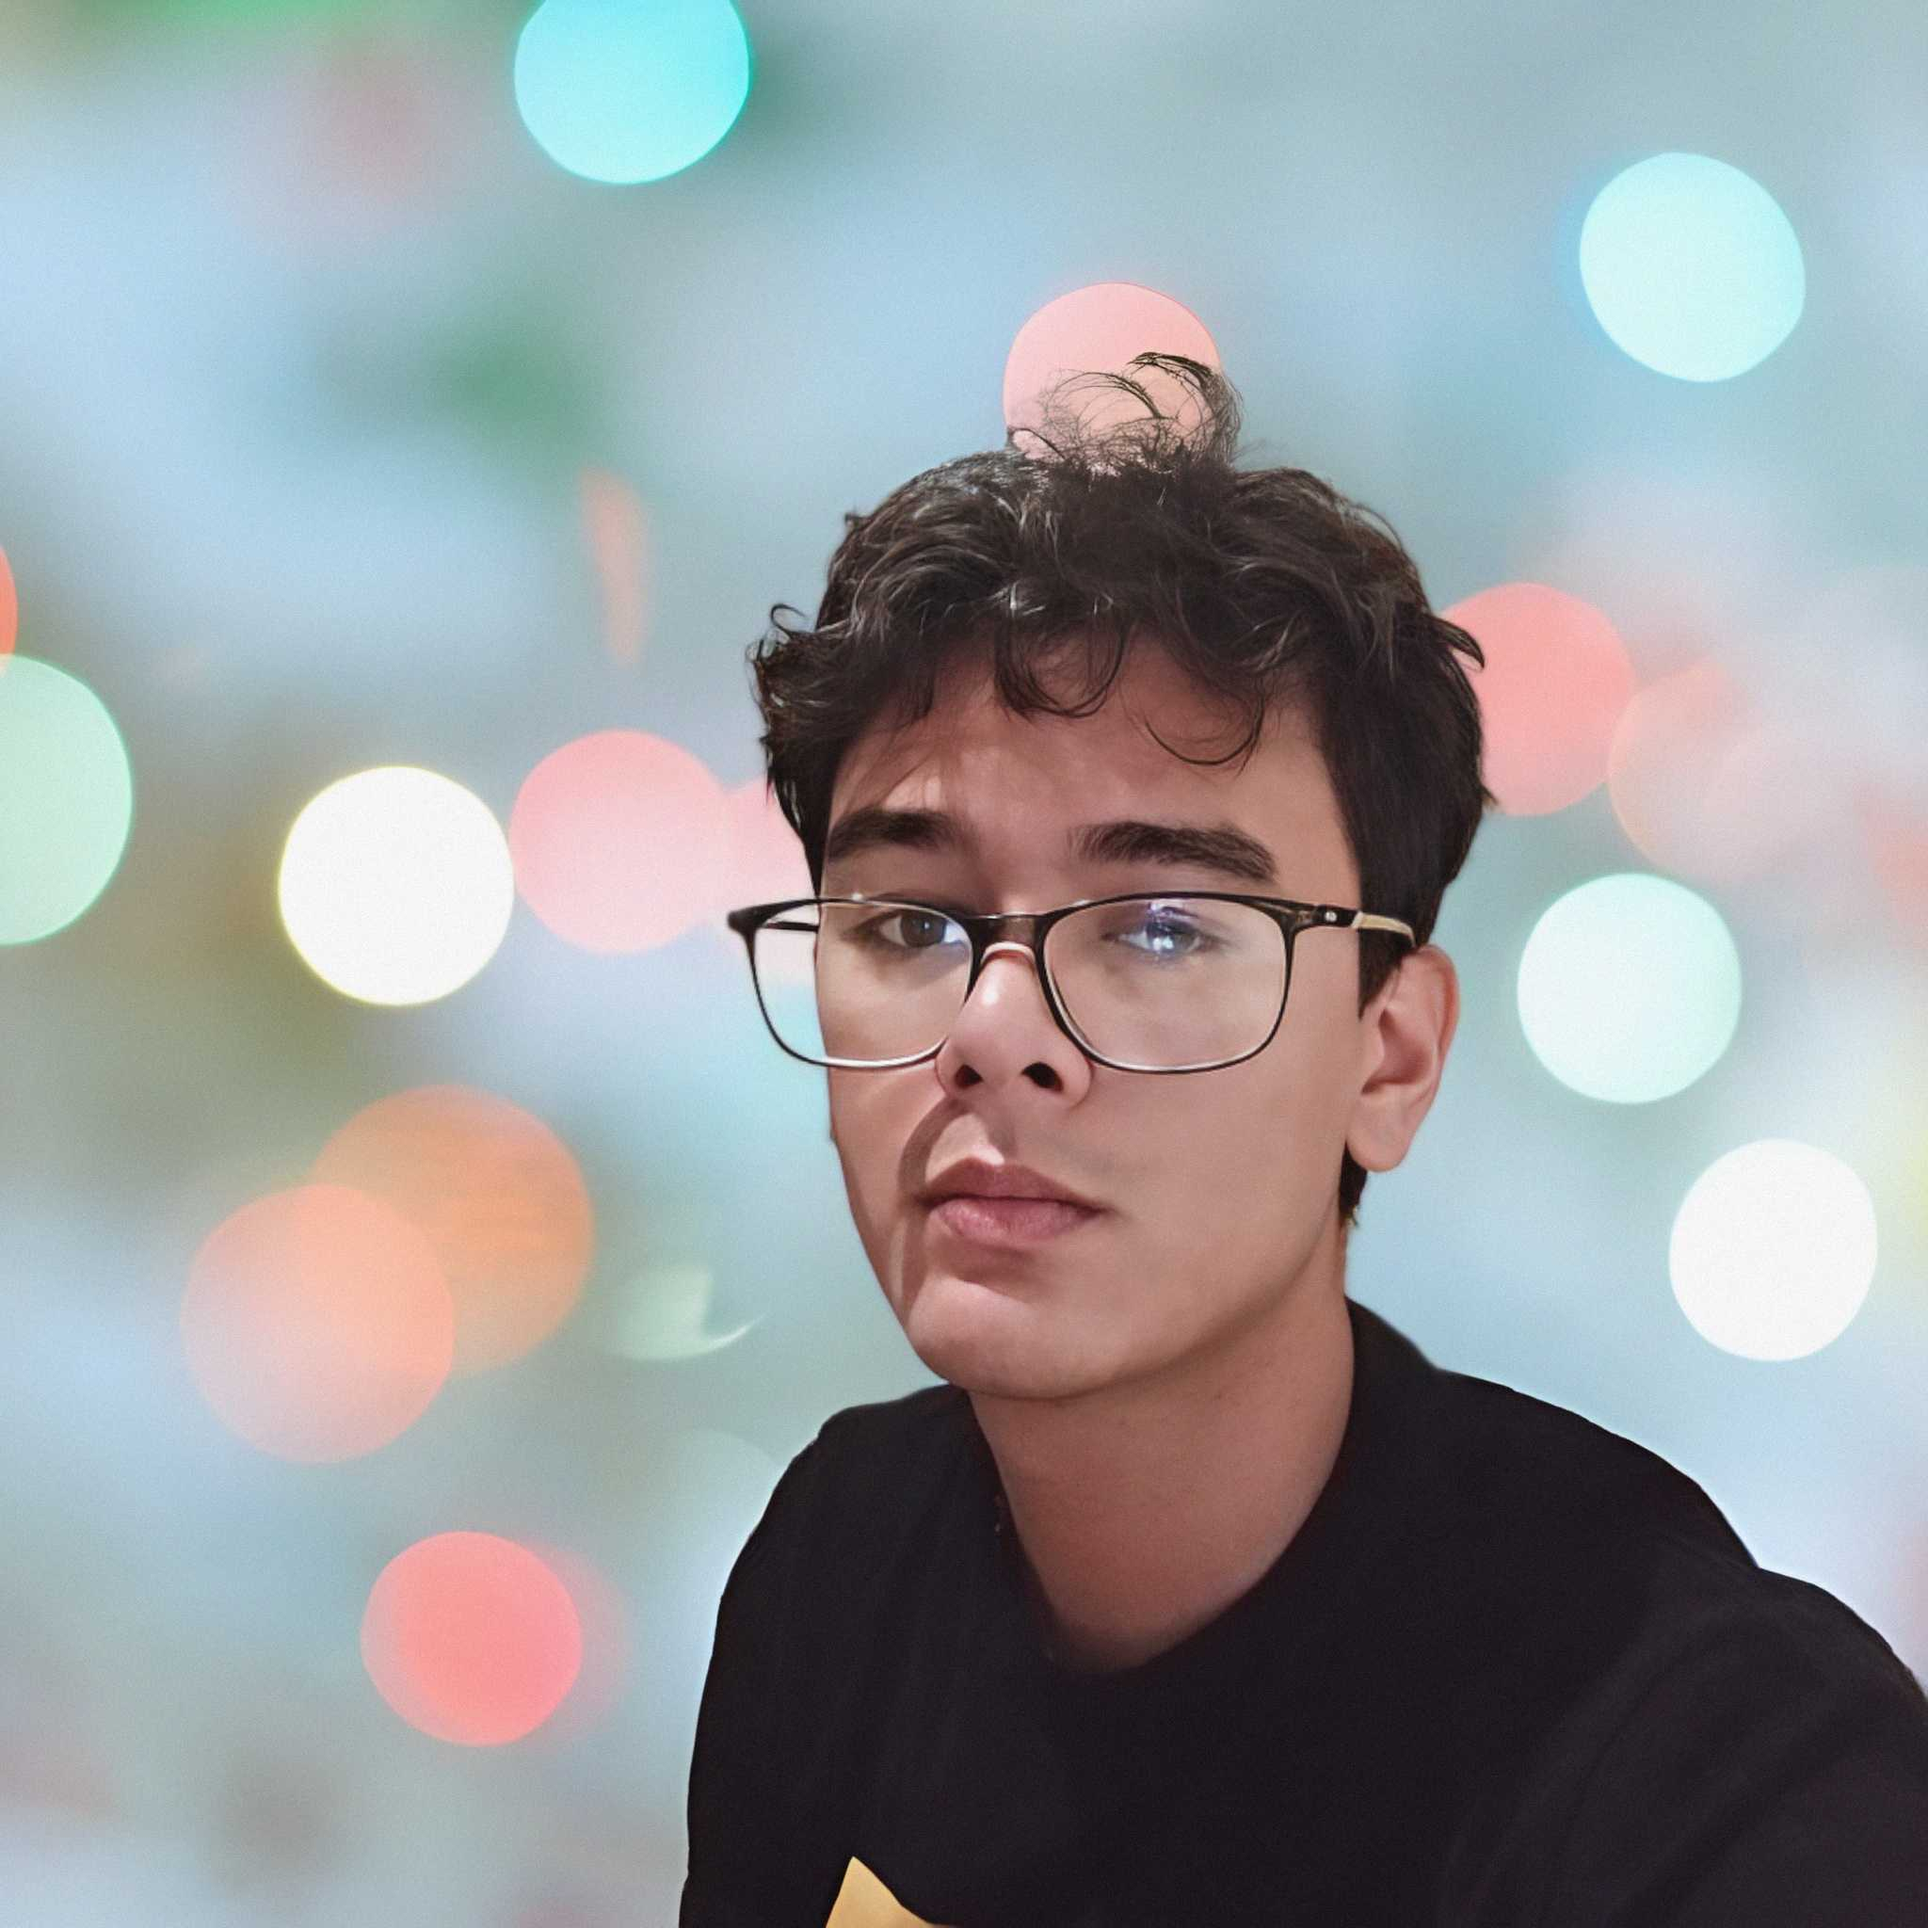
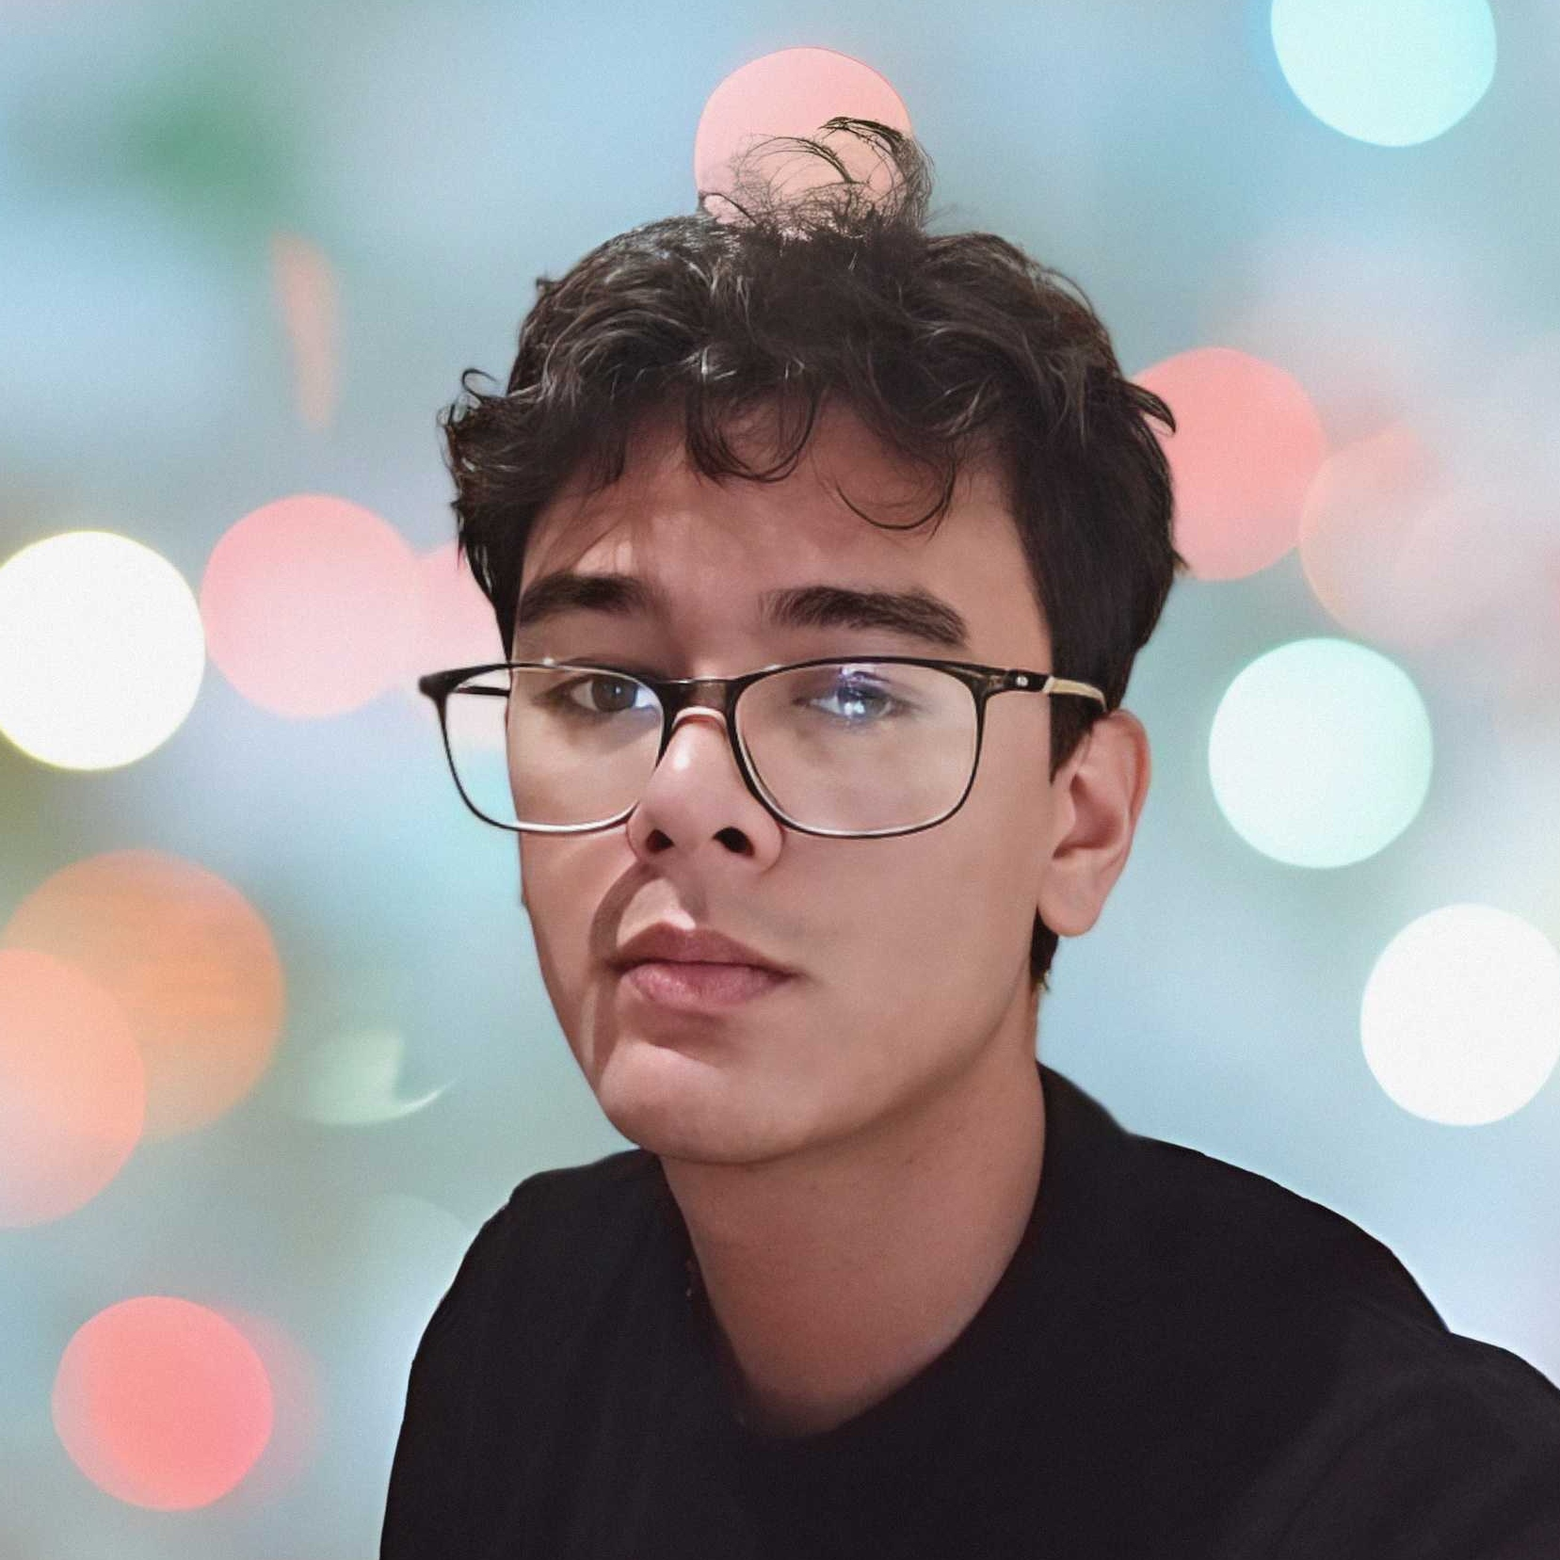
camibio fotos cuadradas

diff --git a/index.html b/index.html
@@ -57,9 +57,9 @@
       <div class="team__photos">
           <div class="team__developer">
               <h3 class="team__text">EQUIPO DE DESARROLLO</h3>
-              <img src="./fotos equipo/Emily.jpg" alt="Emily" class="team__photo">
+              <img src="./fotos equipo/Emily (1).jpg" alt="Emily" class="team__photo">
               <p class="team__names">Emily</p>
-              <img src="./fotos equipo/Diego.jpeg" alt="Diego" class="team__photo">
+              <img src="./fotos equipo/Diego.jpg" alt="Diego" class="team__photo">
               <p class="team__names">Diego</p>
           </div>
           <div class="team__socialmedia">
@@ -69,7 +69,7 @@
           </div>
           <div class="team__learn">
               <h3 class="team__text">EQUIPO DE FORMACIÓN</h3>
-              <img src="./fotos equipo/Adriana.png" alt="Adriana" class="team__photo">
+              <img src="./fotos equipo/Adriana.jpg" alt="Adriana" class="team__photo">
               <p class="team__names">Adriana</p>
               <img src="./fotos equipo/Jassed.jpg" alt="Jassed" class="team__photo">
               <p class="team__names">Jassed</p>
